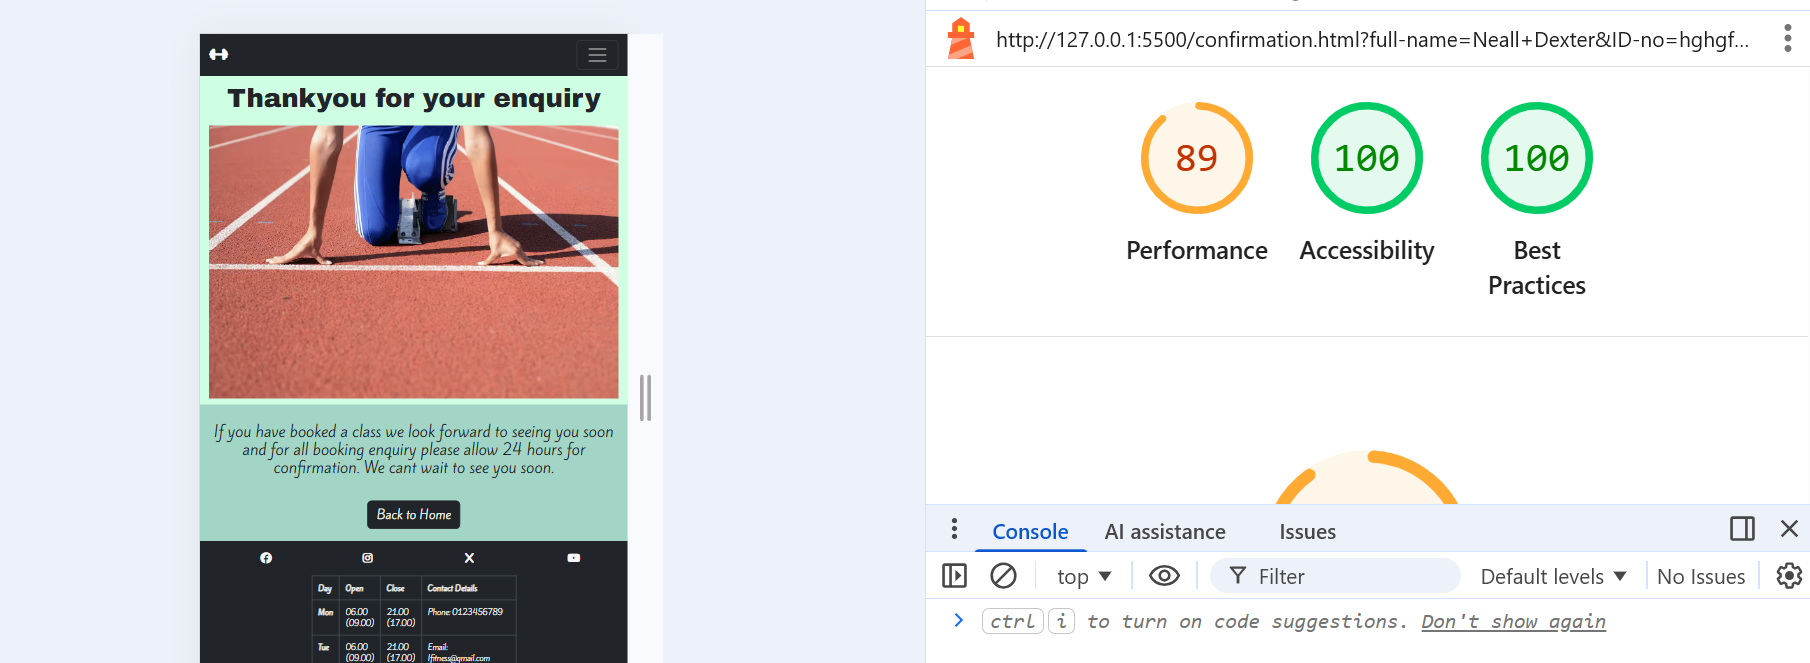
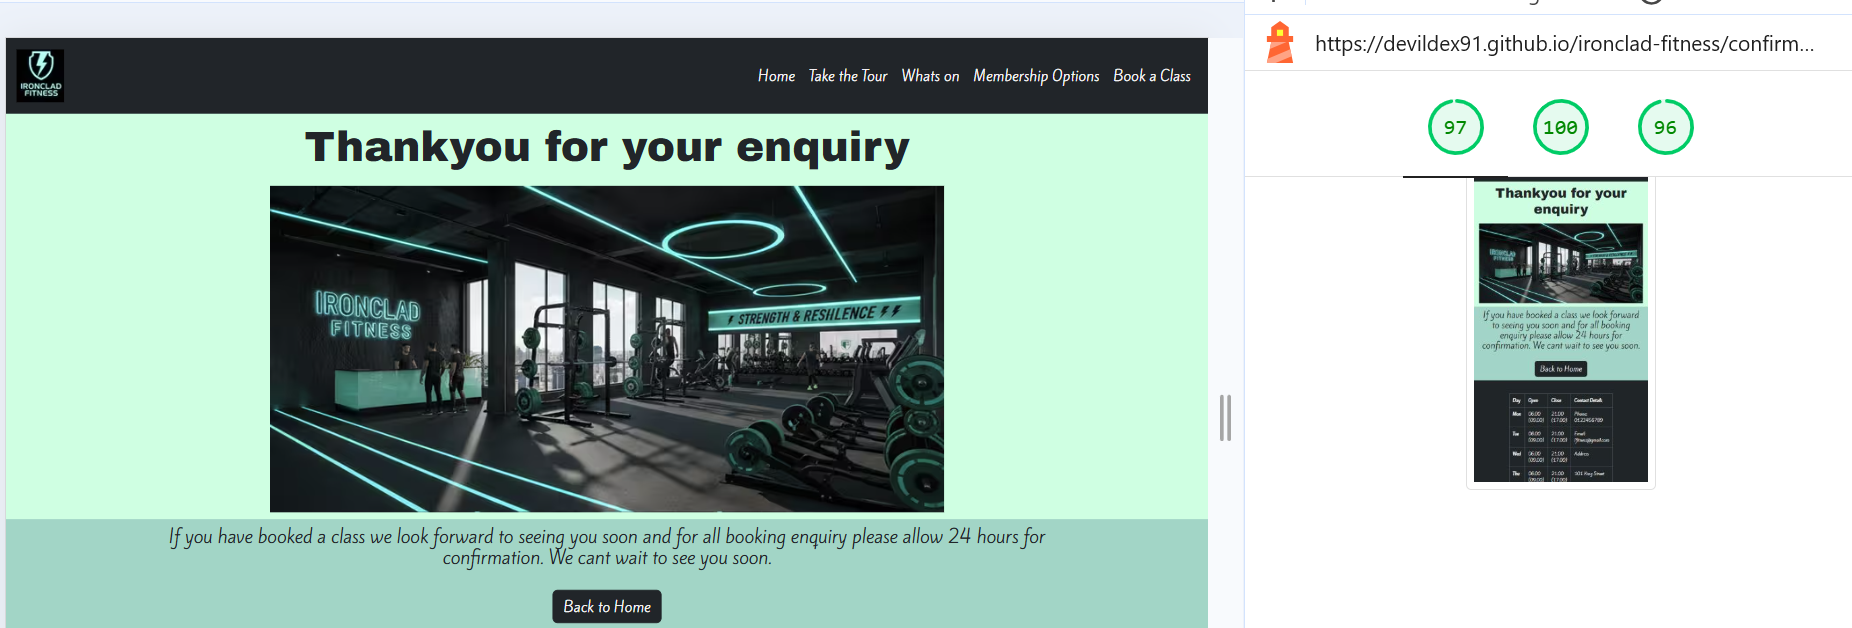
lighthouse tests updated

diff --git a/README.md b/README.md
@@ -217,8 +217,7 @@ All images have been sourced from [pexels.com](https://www.pexels.com/)
 
 #### Media 
 ---
-+ favicons from [fontawesome.](https://fontawesome.com/) 
-+ Dumbbell icon in title</a> icon by <a target="_blank" href="https://icons8.com">Icons8</a>
++ All pictures and favicons generated using Google Gemini. 
 + for all image optimisation [squoosh](https://squoosh.app/) has been used to help resize and compression tasks.
 
 #### Code 
